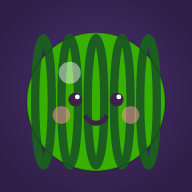
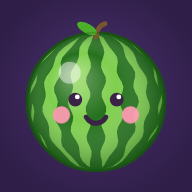
Redraw the watermelon
The old stripes were straight ellipses that ran past the circle, giving a
square silhouette. Stripes now follow the sphere, taper toward the poles and
have wavy rind edges, all clipped to the circle, with shading, a stem and a
leaf. Cheeks are brighter so they don't look brown on green. App icons
regenerated from the new art.

Claude-Session: https://claude.ai/code/session_01YFtcHS6AsA7NrrTThqTn5A

diff --git a/index.html b/index.html
@@ -156,13 +156,21 @@ const FD="'Cherry Bomb One','Arial Rounded MT Bold',sans-serif",FB="'Sniglet',Ar
 function rr(c,x,y,w,h,r){r=Math.min(r,w/2,h/2);c.beginPath();c.moveTo(x+r,y);c.arcTo(x+w,y,x+w,y+h,r);c.arcTo(x+w,y+h,x,y+h,r);c.arcTo(x,y+h,x,y,r);c.arcTo(x,y,x+w,y,r);c.closePath();}
 function dot(c,x,y,r,f){if(f)c.fillStyle=f;c.beginPath();c.arc(x,y,Math.max(0,r),0,Math.PI*2);c.fill();}
 function T(c,s,x,y,sz,col,al='center',fam=FB,w=800){c.font=`${fam===FD?400:w} ${sz}px ${fam}`;c.fillStyle=col;c.textAlign=al;c.textBaseline='middle';c.fillText(s,x,y);}
-function cface(c,x,y,r,mood){c.fillStyle='#3b2346';const e=r*.3;if(mood==='x'){c.strokeStyle='#3b2346';c.lineWidth=Math.max(1.5,r*.08);c.lineCap='round';c.beginPath();c.moveTo(x-e-r*.08,y-r*.16);c.lineTo(x-e+r*.08,y);c.moveTo(x-e+r*.08,y-r*.16);c.lineTo(x-e-r*.08,y);c.moveTo(x+e-r*.08,y-r*.16);c.lineTo(x+e+r*.08,y);c.moveTo(x+e+r*.08,y-r*.16);c.lineTo(x+e-r*.08,y);c.stroke();}else{dot(c,x-e,y-r*.08,r*.1);dot(c,x+e,y-r*.08,r*.1);dot(c,x-e+r*.03,y-r*.12,r*.035,'#fff');dot(c,x+e+r*.03,y-r*.12,r*.035,'#fff');}c.strokeStyle='#3b2346';c.lineWidth=Math.max(1.2,r*.07);c.lineCap='round';c.beginPath();if(mood==='x')c.arc(x,y+r*.3,r*.16,1.15*Math.PI,1.85*Math.PI);else c.arc(x,y+r*.1,r*.16,.15*Math.PI,.85*Math.PI);c.stroke();c.fillStyle='#ff8fab88';dot(c,x-r*.5,y+r*.14,r*.13);dot(c,x+r*.5,y+r*.14,r*.13);}
+function cface(c,x,y,r,mood){c.fillStyle='#3b2346';const e=r*.3;if(mood==='x'){c.strokeStyle='#3b2346';c.lineWidth=Math.max(1.5,r*.08);c.lineCap='round';c.beginPath();c.moveTo(x-e-r*.08,y-r*.16);c.lineTo(x-e+r*.08,y);c.moveTo(x-e+r*.08,y-r*.16);c.lineTo(x-e-r*.08,y);c.moveTo(x+e-r*.08,y-r*.16);c.lineTo(x+e+r*.08,y);c.moveTo(x+e+r*.08,y-r*.16);c.lineTo(x+e-r*.08,y);c.stroke();}else{dot(c,x-e,y-r*.08,r*.1);dot(c,x+e,y-r*.08,r*.1);dot(c,x-e+r*.03,y-r*.12,r*.035,'#fff');dot(c,x+e+r*.03,y-r*.12,r*.035,'#fff');}const mouth=()=>{c.beginPath();if(mood==='x')c.arc(x,y+r*.3,r*.16,1.15*Math.PI,1.85*Math.PI);else c.arc(x,y+r*.1,r*.16,.15*Math.PI,.85*Math.PI);};c.lineCap='round';c.strokeStyle='#3b2346';c.lineWidth=Math.max(1.2,r*.07);mouth();c.stroke();c.fillStyle='#ff8fab88';dot(c,x-r*.5,y+r*.14,r*.13);dot(c,x+r*.5,y+r*.14,r*.13);}
 const FLOAT=[];function floatTxt(s,x,y,col='#fff',sz=18){FLOAT.push({s,x,y,t:1.1,col,sz});}
 function drawFloats(c,dt){for(let i=FLOAT.length-1;i>=0;i--){const f=FLOAT[i];f.t-=dt;f.y-=40*dt;c.globalAlpha=clampN(f.t,0,1);T(c,f.s,f.x,f.y,f.sz,f.col,'center',f.sz>=20?FD:FB);c.globalAlpha=1;if(f.t<=0)FLOAT.splice(i,1);}}
 
 /* ---------- fruit art (second value = radius as a fraction of jar width) ---------- */
 const FRUIT=[['#ff4d6d',.047],['#ff8fab',.062],['#b388eb',.079],['#ffb703',.097],['#fb8500',.117],['#e63946',.138],['#ffd6a5',.158],['#f9e076',.18],['#ffafcc',.19],['#b5e48c',.215],['#38b000',.25]];
-function drawFruit(c,x,y,r,l,mood){c.fillStyle=FRUIT[l][0];dot(c,x,y,r);if(l===10){c.strokeStyle='#1b5e20';c.lineWidth=r*.12;for(let k=-2;k<=2;k++){c.beginPath();c.ellipse(x+k*r*.38,y,r*.12,r*.92,0,0,7);c.stroke();}}c.strokeStyle='#00000022';c.lineWidth=2;c.beginPath();c.arc(x,y,r,0,7);c.stroke();dot(c,x-r*.38,y-r*.42,r*.16,'#ffffff77');if(l<3||l===5){c.fillStyle='#38b000';c.beginPath();c.ellipse(x+r*.2,y-r*.95,r*.28,r*.12,-.4,0,7);c.fill();}cface(c,x,y+r*.05,r,mood);}
+function drawMelon(c,x,y,r){c.save();c.beginPath();c.arc(x,y,r,0,7);c.clip();c.fillStyle='#7fcf4e';c.fillRect(x-r,y-r,r*2,r*2);
+ c.fillStyle='#24711c';for(let k=-3;k<=3;k++){const th=k*.5,cx=Math.sin(th)*r,w=r*(.05+.065*Math.cos(th)),L=[],R=[];
+  for(let i=0;i<=28;i++){const t=-1+i/14,q=Math.sqrt(Math.max(0,1-t*t)),hw=w*(.35+.65*q)*(1+.32*Math.sin(t*15+k*1.7)),px=x+cx*q,py=y+t*r;L.push([px-hw,py]);R.push([px+hw,py]);}
+  c.beginPath();L.forEach(([u,v],i)=>i?c.lineTo(u,v):c.moveTo(u,v));R.reverse().forEach(([u,v])=>c.lineTo(u,v));c.closePath();c.fill();}
+ const g=c.createRadialGradient(x-r*.35,y-r*.4,r*.05,x,y,r*1.02);g.addColorStop(0,'rgba(255,255,230,.35)');g.addColorStop(.45,'rgba(255,255,255,0)');g.addColorStop(1,'rgba(0,40,0,.4)');c.fillStyle=g;c.fillRect(x-r,y-r,r*2,r*2);c.restore();
+ c.strokeStyle='#1d5c17';c.lineWidth=Math.max(1.5,r*.035);c.beginPath();c.arc(x,y,r,0,7);c.stroke();
+ c.strokeStyle='#7a5530';c.lineWidth=Math.max(2,r*.07);c.lineCap='round';c.beginPath();c.moveTo(x,y-r*.94);c.quadraticCurveTo(x+r*.02,y-r*1.1,x+r*.13,y-r*1.13);c.stroke();
+ c.fillStyle='#4caf2a';c.beginPath();c.ellipse(x-r*.13,y-r*1.06,r*.16,r*.07,.5,0,7);c.fill();}
+function drawFruit(c,x,y,r,l,mood){if(l===10)drawMelon(c,x,y,r);else{c.fillStyle=FRUIT[l][0];dot(c,x,y,r);}c.strokeStyle='#00000022';c.lineWidth=2;c.beginPath();c.arc(x,y,r,0,7);c.stroke();dot(c,x-r*.38,y-r*.42,r*.16,'#ffffff77');if(l<3||l===5){c.fillStyle='#38b000';c.beginPath();c.ellipse(x+r*.2,y-r*.95,r*.28,r*.12,-.4,0,7);c.fill();}cface(c,x,y+r*.05,r,mood);if(l===10){c.fillStyle='#ff9db5d8';dot(c,x-r*.5,y+r*.19,r*.12);dot(c,x+r*.5,y+r*.19,r*.12);}}
 function drawMold(c,r,f){if(!f.mold)return;const n=Math.ceil(f.mold*8);for(let i=0;i<n;i++){const a=f.seed+i*2.39,dd=r*(.2+.6*(((i*53+Math.floor(f.seed*10))%10)/10)),sx=Math.cos(a)*dd,sy=Math.sin(a)*dd,sr=r*(.1+.12*f.mold);dot(c,sx,sy,sr,'#6f8f33cc');dot(c,sx-sr*.3,sy-sr*.3,sr*.45,'#b9d470cc');}if(f.rot){c.fillStyle='rgba(70,80,30,.3)';dot(c,0,0,r);}}
 function drawIce(c,x,y,r,f){c.fillStyle='rgba(200,240,255,.55)';rr(c,x-r*1.04,y-r*1.04,r*2.08,r*2.08,r*.38);c.fill();c.strokeStyle='#ffffffcc';c.lineWidth=2;c.stroke();c.strokeStyle='#ffffffb0';c.lineWidth=2.5;c.lineCap='round';c.beginPath();c.moveTo(x-r*.75,y-r*.35);c.lineTo(x-r*.4,y-r*.78);c.stroke();
  if(f.frz>0){const k=1-f.frz/3,n=Math.floor(k*7);c.strokeStyle='#ffffff';c.lineWidth=1.6;for(let i=0;i<n;i++){const a=f.seed+i*2.1,len=r*(.6+.3*(i%3)/2);let px=x,py=y;c.beginPath();c.moveTo(px,py);for(let s=1;s<=3;s++){const aa=a+(s%2?.35:-.3);px+=Math.cos(aa)*len/3;py+=Math.sin(aa)*len/3;c.lineTo(px,py);}c.stroke();}}}

diff --git a/sw.js b/sw.js
@@ -1,5 +1,5 @@
 /* Fruit Merge service worker: network first so updates show straight away, cache as offline fallback. */
-const CACHE = 'fruit-merge-v1';
+const CACHE = 'fruit-merge-v2';
 const CORE = ['./', './index.html', './manifest.webmanifest', './icons/icon-192.png', './icons/icon-512.png'];
 self.addEventListener('install', e => {
   e.waitUntil(caches.open(CACHE).then(c => c.addAll(CORE)).then(() => self.skipWaiting()));
